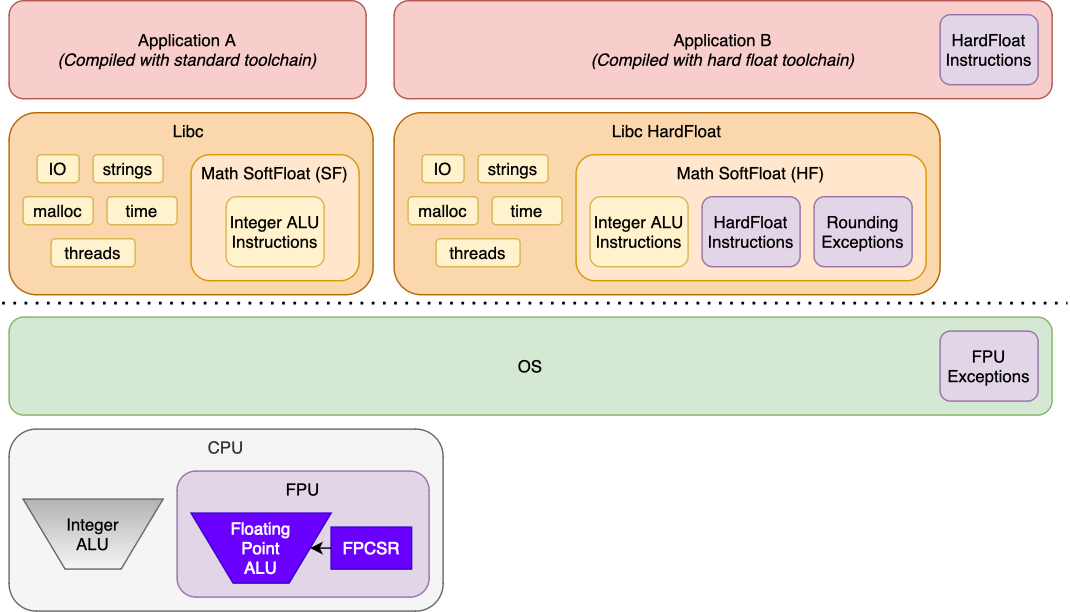
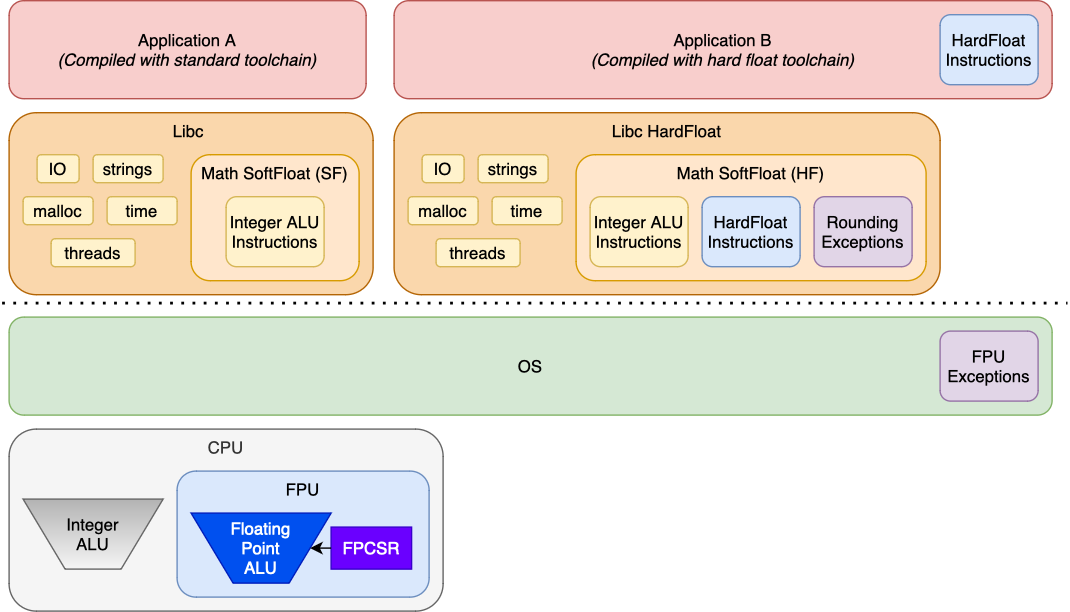
fpu-port: Clarify the difference between the GCC and GLIBC

Changed region(s): [[0.1542, 0.8382, 0.3701, 0.9935], [0.185, 0.7451, 0.3701, 0.7761]]

diff --git a/_posts/2023-02-19-or1k-fpu-port.md b/_posts/2023-02-19-or1k-fpu-port.md
@@ -109,14 +109,19 @@ Both *Application A* and *Application B* can run on the same system, but
 *Application B* requires a libc and kernel that support the floating point
 runtime.  As we can see:
 
- - In *Application B* it leverages floating point instructions. That should be implemented in the CPU.
+ - In *Application B* it leverages floating point instructions as noted in the
+   <span style="color:blue">blue</span> box. That should be implemented in the
+   CPU, and are produced by the GCC compiler.
  - The math routines in the C Library used by *Application B* are accelarated by
-   the FPU.  The math routines can also set up rounding of the FPU hardware to
+   the FPU as per the <span style="color:blue">blue</span> box.  The math routines can also set up rounding of the FPU hardware to
    be in line with rounding of the software routines.  The math routines can
-   also detect exceptions by checking the FPU state.
+   also detect exceptions by checking the FPU state.  The rounding and exception
+   handling in the <span style="color:blue">purple</span> boxes is what is
+   implemented the GLIBC.
  - The kernel must be able to save and restore the FPU state when switching
-   between processes.  It also has support for signalling the process if
-   enabled.
+   between processes.  The OS also has support for signalling the process if
+   enabled.  This is indicated in the <span style="color:blue">purple</span>
+   box.
 
 In order to compile applications like *Application B* a separate compiler
 toolchain is needed.  For highly configurable embredded system CPU's like ARM, RISC-V there
